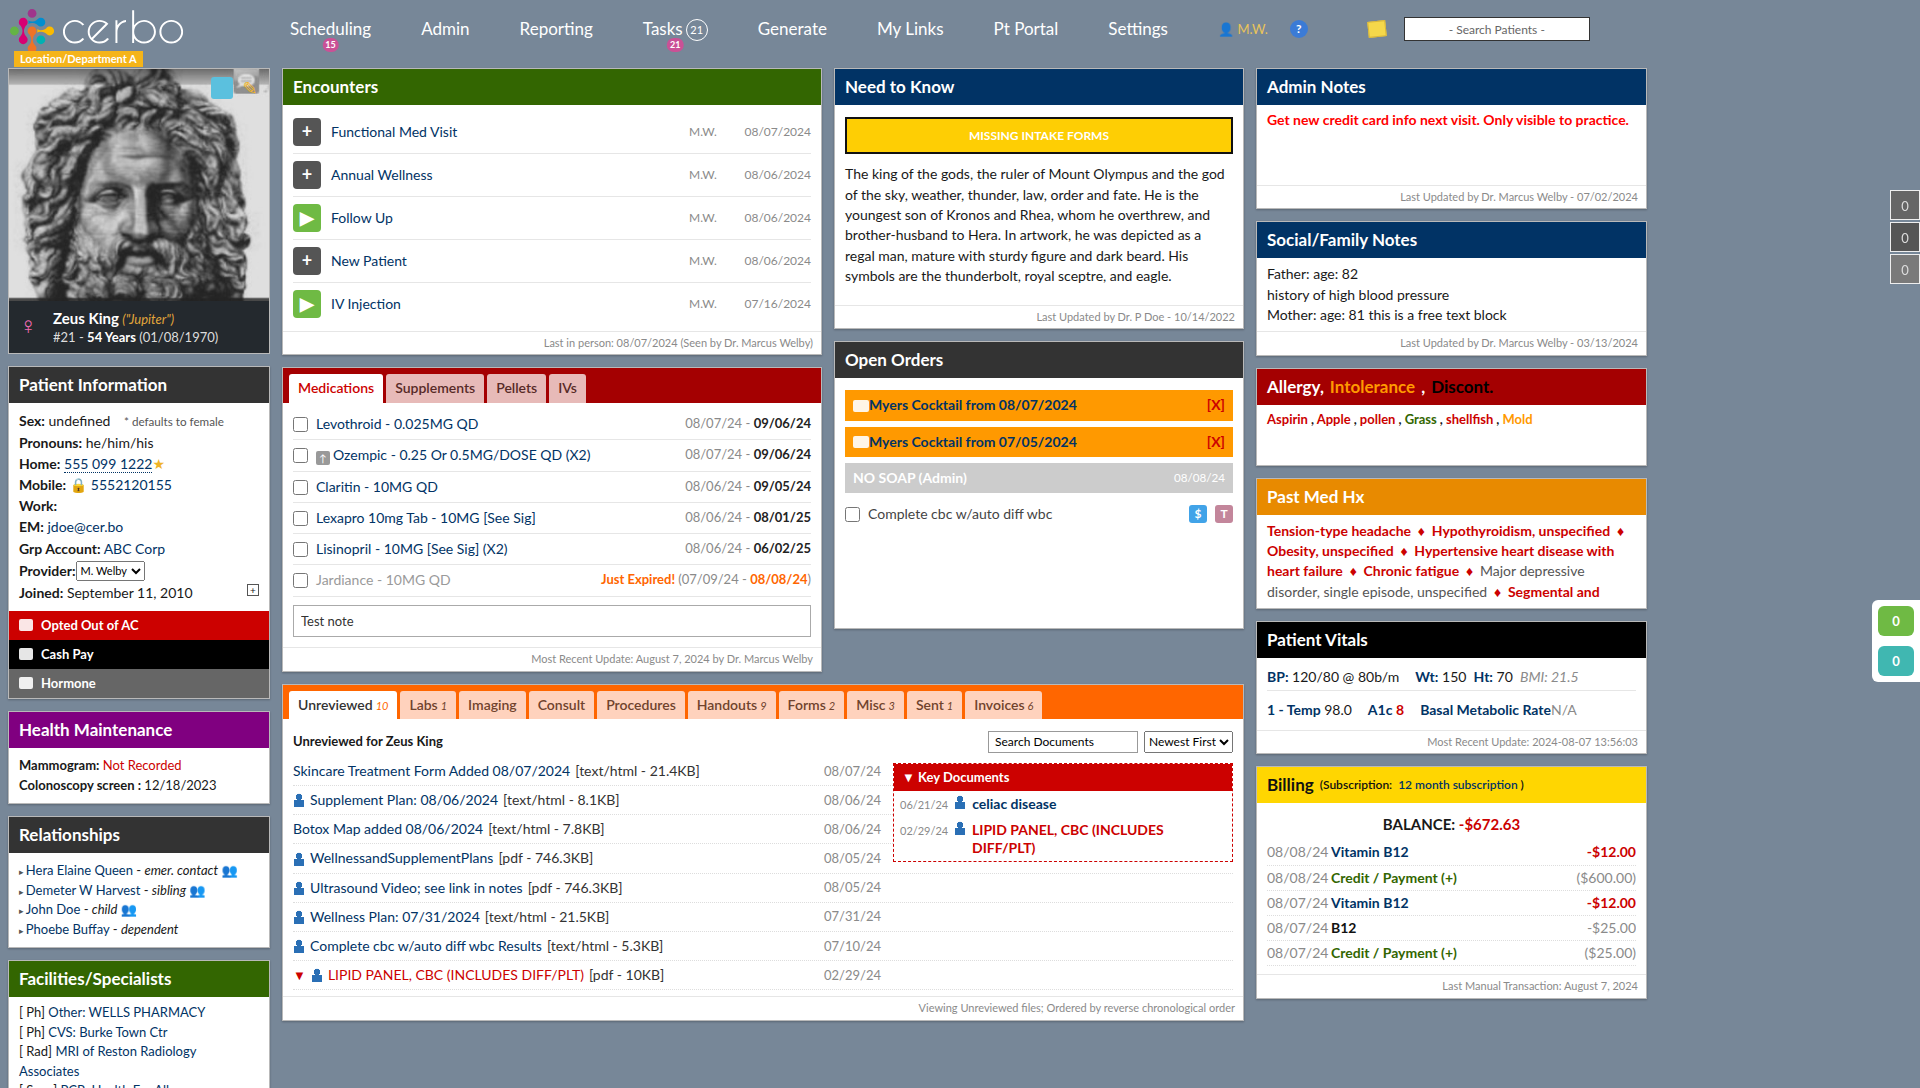
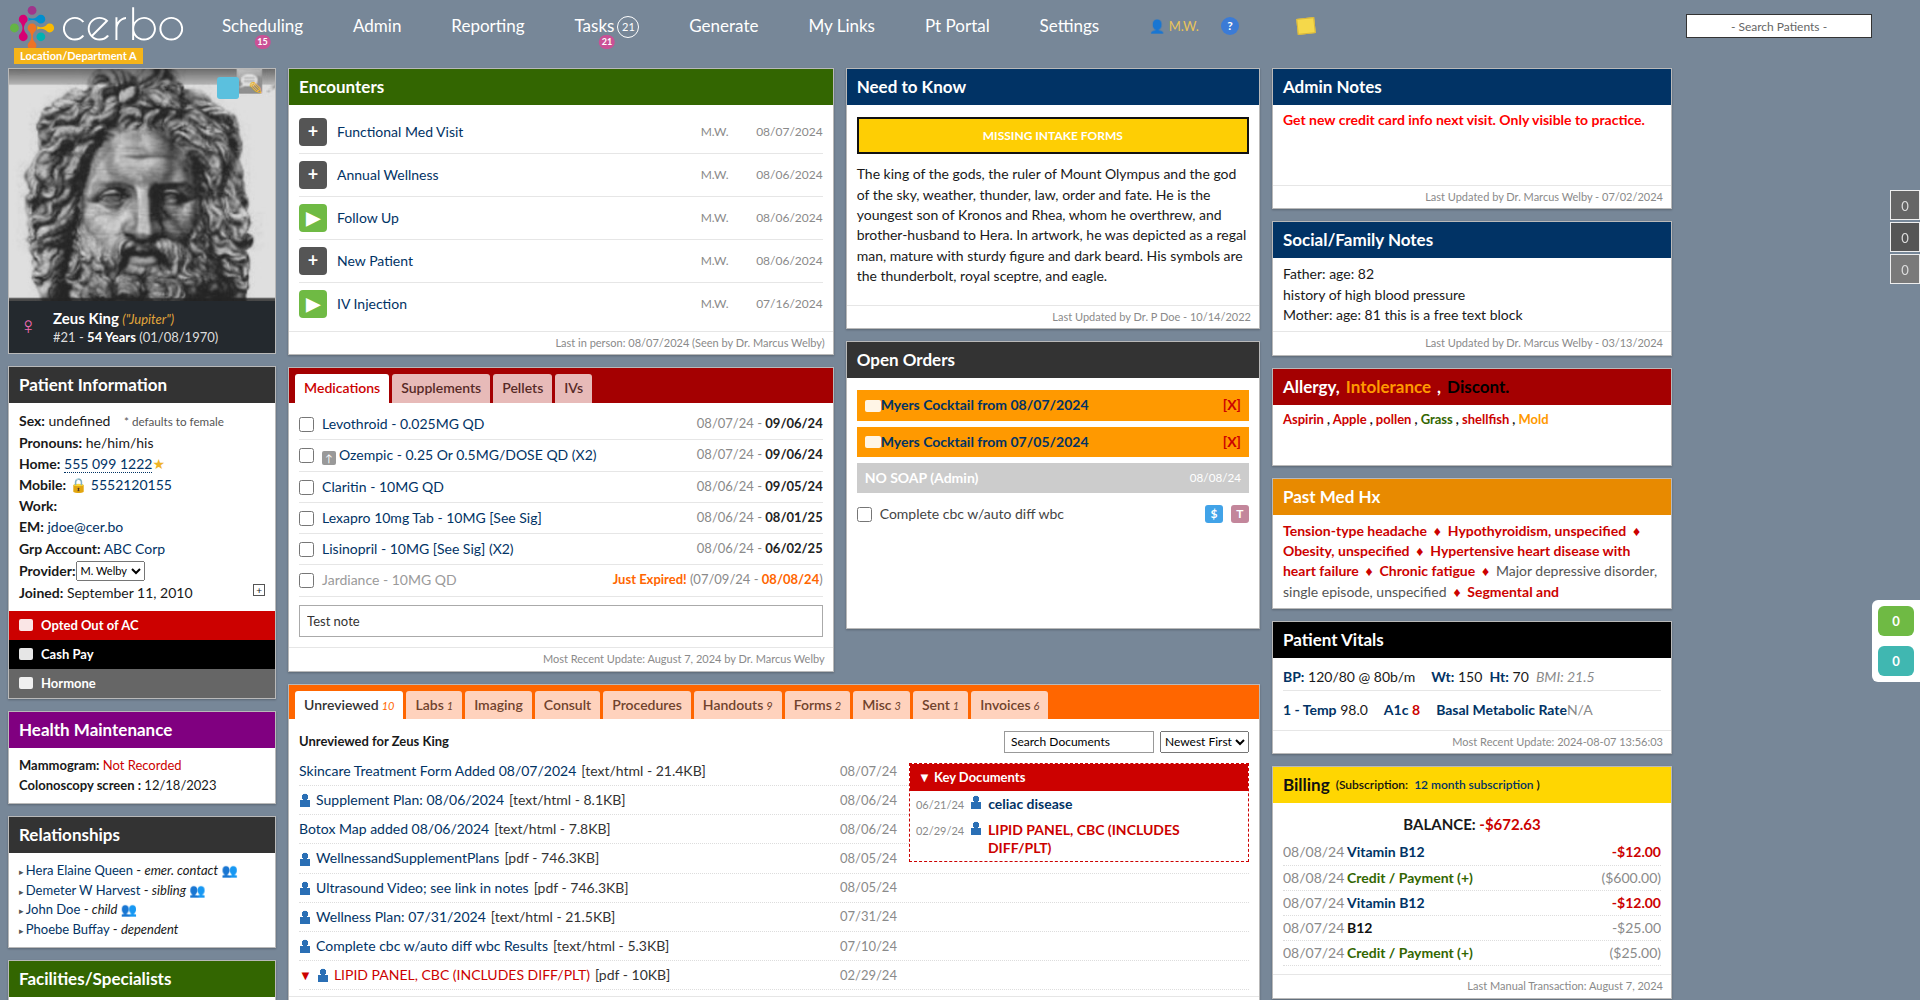
experimental chart: fluid layout — proportional columns with minimums, wrapping nav, Key Documents drops below rows under 1500px, two-column under 1280px, single column under 900px; no horizontal overflow at 1920/1440/1280/1024

diff --git a/web/src/styles/chart.css b/web/src/styles/chart.css
@@ -48,16 +48,20 @@
 
 /* ── top nav ─────────────────────────────────────────────────────────────── */
 .xc-nav {
-  height: 58px;
+  height: auto;
   display: flex;
   align-items: center;
-  padding: 0 0 0 8px;
+  padding: 0 48px 6px 8px;
   position: relative;
+  min-height: 58px;
+  flex-wrap: wrap;
+  row-gap: 6px;
 }
 .xc-nav__logo {
   position: relative;
-  width: 262px;
-  margin-right: 20px;
+  width: auto;
+  margin-right: clamp(12px, 2vw, 40px);
+  padding-right: 0;
 }
 .xc-nav__logo img {
   height: 44px;
@@ -77,8 +81,8 @@
 }
 .xc-nav__item {
   color: #fff;
-  font-size: 17px;
-  margin-right: 50px;
+  font-size: clamp(14px, 0.9vw, 17px);
+  margin-right: clamp(14px, 2.6vw, 50px);
   position: relative;
   white-space: nowrap;
 }
@@ -130,7 +134,7 @@
   text-align: center;
   line-height: 18px;
   font-size: 12px;
-  margin-right: 60px;
+  margin-right: clamp(12px, 3vw, 60px);
 }
 .xc-nav__note {
   width: 18px;
@@ -141,7 +145,7 @@
   transform: rotate(-6deg);
 }
 .xc-nav__search {
-  width: 186px;
+  width: clamp(140px, 12vw, 186px);
   height: 24px;
   border: 1px solid #333;
   background: #fff;
@@ -149,14 +153,18 @@
   color: #666;
   font-size: 12px;
   padding: 0 6px;
+  margin-left: auto;
 }
 
 /* ── grid ────────────────────────────────────────────────────────────────── */
 .xc-grid {
-  display: flex;
+  display: grid;
   gap: 12px;
-  padding: 10px 0 24px 8px;
+  padding: 10px 48px 24px 8px;
   align-items: flex-start;
+  grid-template-columns: minmax(220px, 262fr) minmax(0, 950fr) minmax(280px, 391fr);
+  max-width: 1720px;
+  box-sizing: border-box;
 }
 .xc-col {
   display: flex;
@@ -785,15 +793,9 @@
   min-height: 236px;
 }
 
-.xc-col--rail {
-  flex: 0 0 262px;
-}
-.xc-col--right {
-  flex: 0 0 391px;
-}
 .xc-mid {
   display: grid;
-  grid-template-columns: 540px 410px;
+  grid-template-columns: minmax(0, 540fr) minmax(0, 410fr);
   grid-template-rows: auto auto;
   gap: 12px;
   align-items: start;
@@ -813,4 +815,55 @@
 }
 .xc-docs-span .xc-panel__body {
   min-height: 236px;
+}
+
+/* ── responsive ──────────────────────────────────────────────────────────── */
+@media (max-width: 1500px) {
+  .xc-doc {
+    padding-right: 0;
+  }
+  .xc-keydocs {
+    position: static;
+    width: auto;
+    margin-top: 10px;
+  }
+}
+@media (max-width: 1280px) {
+  .xc-grid {
+    grid-template-columns: minmax(220px, 1fr) minmax(0, 3.4fr);
+  }
+  .xc-col--right {
+    grid-column: 1 / 3;
+    display: grid;
+    grid-template-columns: repeat(2, minmax(0, 1fr));
+    align-items: start;
+  }
+  .xc-col--right > .xc-panel {
+    margin: 0;
+  }
+}
+@media (max-width: 900px) {
+  .xc-grid {
+    grid-template-columns: 1fr;
+    padding-right: 48px;
+  }
+  .xc-mid {
+    grid-template-columns: 1fr;
+  }
+  .xc-col--mid,
+  .xc-col--third {
+    grid-column: 1;
+    grid-row: auto;
+  }
+  .xc-docs-span {
+    grid-column: 1;
+    grid-row: auto;
+  }
+  .xc-col--right {
+    grid-column: 1;
+    grid-template-columns: 1fr;
+  }
+  .xc-nav__item .xc-badge {
+    display: none;
+  }
 }
